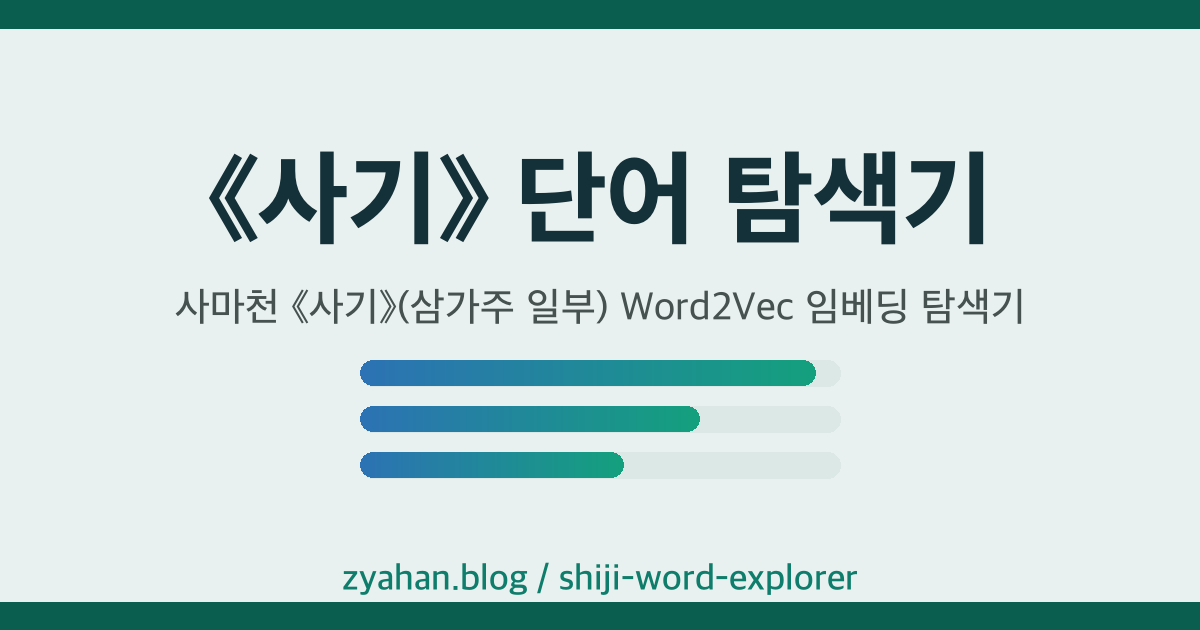
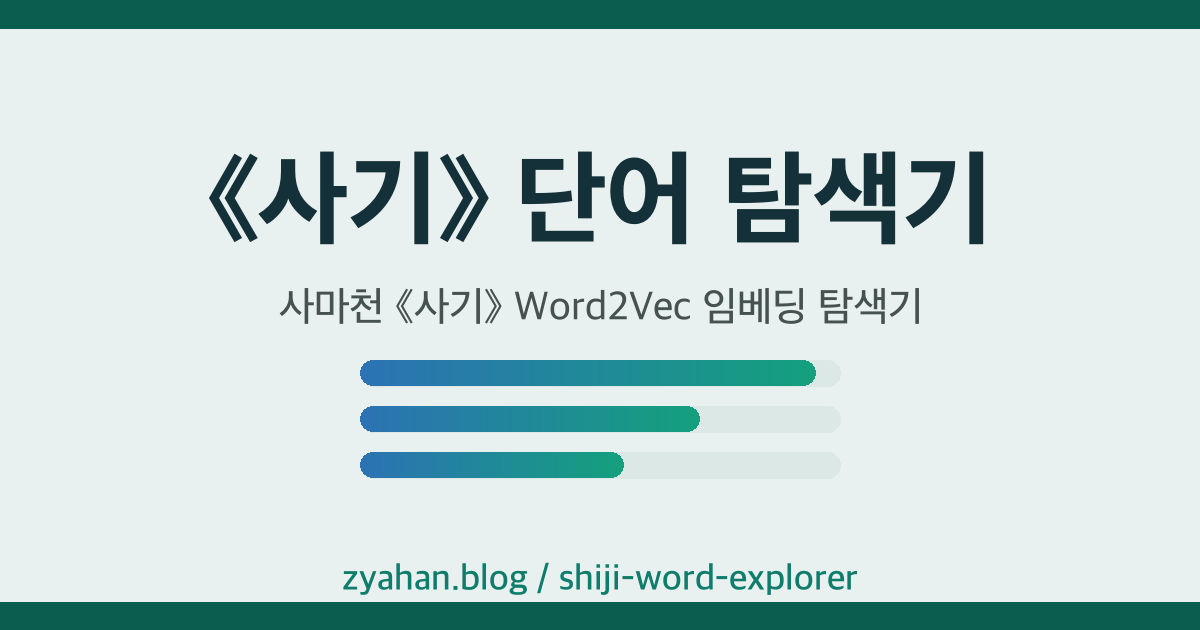
史記 三家注 제외 — 本文만으로 재학습 + 탐색기/OG 갱신
史記 standalone 모델을 漢書·後漢書와 동일하게 本文 전용으로 전환. 三家注(集解·索隱·正義:
卷027 天官書 등 ~23k 토큰)는 唐宋 注釋家(裴駰·司馬貞·張守節) register라 西漢 텍스트 모델
의도에 맞춰 학습 제외.

- config/shiji.yaml: include_peizhu_in_training true→false (注는 corpus.jsonl·가제티어엔
  유지, Stage 5만 필터). 부정확 주석("注 미수록") 교정.
- 재학습(05~08): 本文 55,976 세그먼트, 코퍼스 679k→656k 토큰, vocab 4,998→4,937(개체 1,540).
  注-전용 토큰(注釋家 孟康·蘇林·徐廣·裴駰, 라벨 集解·索隱·正義) 전부 OOV로 이탈 — 의도된 정화.
  검증 17/17. 本文 개체 전원 유지(嫪毐·去病·田忌 등), 군집 일관(太史公→《書》·《詩》·《易》).
- 웹 탐색기: index.html 문안(부제·안내·출처)을 漢書 패턴대로 '本文 학습' 명시로 교체.
  og-image.png 부제 '사마천 《사기》 Word2Vec 임베딩 탐색기'로 재생성('삼가주 일부' 제거,
  나머지 디자인 픽셀 동일). README 史記 열 갱신.
- docs/ADDING_AN_EXPLORER.md 부제 예시도 注-제외 모델 기준으로 갱신.

Changed region(s): [[0.1542, 0.4524, 0.8633, 0.5127]]

diff --git a/web/shiji/index.html b/web/shiji/index.html
@@ -4,12 +4,12 @@
 <meta charset="utf-8">
 <meta name="viewport" content="width=device-width, initial-scale=1">
 <title>《사기》 단어 탐색기</title>
-<meta name="description" content="사마천의 《사기》(삼가주 일부 포함)에서 학습한 Word2Vec 임베딩 탐색기 — 한자 단어의 쓰임을 코사인 유사도로 비교하고, 비슷한 단어·스파이를 찾아보세요.">
+<meta name="description" content="사마천의 《사기》 본문에서 학습한 Word2Vec 임베딩 탐색기 — 한자 단어의 쓰임을 코사인 유사도로 비교하고, 비슷한 단어·스파이를 찾아보세요.">
 <!-- Open Graph / SNS 공유 카드 -->
 <meta property="og:type" content="website">
 <meta property="og:site_name" content="《사기》 단어 탐색기">
 <meta property="og:title" content="《사기》 단어 탐색기">
-<meta property="og:description" content="사마천의 《사기》(삼가주 일부 포함)에서 학습한 Word2Vec 임베딩 탐색기 — 한자 단어의 쓰임을 코사인 유사도로 비교하고, 비슷한 단어·스파이를 찾아보세요.">
+<meta property="og:description" content="사마천의 《사기》 본문에서 학습한 Word2Vec 임베딩 탐색기 — 한자 단어의 쓰임을 코사인 유사도로 비교하고, 비슷한 단어·스파이를 찾아보세요.">
 <meta property="og:url" content="https://zyahan.blog/shiji-word-explorer">
 <meta property="og:image" content="https://zyahan.blog/assets/images/shiji-explorer-og-image.png">
 <meta property="og:image:width" content="1200">
@@ -18,7 +18,7 @@
 <meta property="og:locale" content="ko_KR">
 <meta name="twitter:card" content="summary_large_image">
 <meta name="twitter:title" content="《사기》 단어 탐색기">
-<meta name="twitter:description" content="사마천의 《사기》(삼가주 일부 포함)에서 학습한 Word2Vec 임베딩 탐색기 — 한자 단어의 쓰임을 코사인 유사도로 비교하고, 비슷한 단어·스파이를 찾아보세요.">
+<meta name="twitter:description" content="사마천의 《사기》 본문에서 학습한 Word2Vec 임베딩 탐색기 — 한자 단어의 쓰임을 코사인 유사도로 비교하고, 비슷한 단어·스파이를 찾아보세요.">
 <meta name="twitter:image" content="https://zyahan.blog/assets/images/shiji-explorer-og-image.png">
 <!-- Canonical -->
 <link rel="canonical" href="https://zyahan.blog/shiji-word-explorer">
@@ -49,7 +49,7 @@
   <a class="blog-link" href="https://zyahan.blog" rel="noopener">미남과 오컬트와 자살</a>
   <nav class="series-nav"><span class="han">前四史</span> 단어 탐색기 · <strong class="current">《사기》</strong> · <a href="../hanshu/index.html">《한서》</a> · <a href="../houhanshu/index.html">《후한서》</a> · <a href="../sanguozhi/index.html">《삼국지》</a></nav>
   <h1>《사기》 단어 탐색기</h1>
-  <p class="subtitle">사마천의 《사기》(三家注 일부 포함)에서 학습한 Word2Vec 모델로 한문 단어의 쓰임을 비교합니다.
+  <p class="subtitle">사마천의 《사기》 本文에서 학습한 Word2Vec 모델로 한문 단어의 쓰임을 비교합니다.
   <strong>한글 독음으로도 검색</strong>할 수 있어요.</p>
   <p class="meta">vector_size=100 · skip-gram · 어휘 <span id="vocabCount">…</span>개</p>
 </header>
@@ -87,7 +87,7 @@
       <strong>수십~수백 회 이상</strong> 등장한 단어일수록 결과를 믿을 만합니다.</p>
 
       <h4>그 밖에 알아둘 점</h4>
-      <p>· 이 모델은 오직 <strong>사마천 《사기》(三家注 일부 포함)</strong> 원문만 압니다. 다른 사서나
+      <p>· 이 모델은 오직 <strong>사마천 《사기》 本文</strong>만 압니다(三家注 등 후대 주석은 학습에서 제외). 다른 사서나
       역사적 사실 전체를 반영하지 않으며, 원문의 서술 습관·치우침이 그대로 담깁니다.<br>
       · 한 글자 이름(<span class="han">信</span>·<span class="han">良</span> 등)은 다른 뜻과 겹쳐 흐려질 수 있어 따로 묶지 않고,
       <span class="han">張良</span>처럼 두 글자 이상 고유명사만 한 단어로 인식합니다.<br>
@@ -146,7 +146,7 @@
 
 <footer class="site-foot">
   <p><strong>데이터 출처</strong> ·
-  원문 <span class="han">史記</span> 130<span class="han">卷</span>(<span class="han">三家注</span> 일부 포함): <a href="https://zh.wikisource.org/wiki/史記" rel="noopener"><span class="han">中文維基文庫</span></a> (CC BY-SA 4.0) ·
+  원문 <span class="han">史記</span> 130<span class="han">卷</span>(本文 학습, <span class="han">三家注</span> 제외): <a href="https://zh.wikisource.org/wiki/史記" rel="noopener"><span class="han">中文維基文庫</span></a> (CC BY-SA 4.0) ·
   인명·관직: <a href="https://github.com/cbdb-project" rel="noopener">CBDB</a> (CC BY-NC-SA 4.0) ·
   지명: CHGIS (Harvard &amp; Fudan).</p>
   <p>CBDB 기반 파생물이므로 <strong>비상업·출처표기·동일조건(CC BY-NC-SA 4.0)</strong> 하에 이용하세요.</p>

diff --git a/reports/shiji/validation.md b/reports/shiji/validation.md
@@ -1,7 +1,7 @@
 # 검증 리포트 — 《史記》 개체 인식 토큰화 + Word2Vec
 
 - 코퍼스 토큰: **679,405** (本文 656,411 / 注 22,994)
-- 어휘(vocab, min_count=3): **4,998**
+- 어휘(vocab, min_count=3): **4,937**
 - 가제티어 표면형: 1,932 → 코퍼스 적중: **1,893** (개체 토큰 출현 39,998회, 전체의 5.9%)
 
 ## 1. 토큰화 정합성 자동 검사
@@ -39,7 +39,7 @@
 | APP | 18 |
 | ERA | 11 |
 
-- 적중 개체 중 vocab 진입(min_count 충족): **1542** / 1893
+- 적중 개체 중 vocab 진입(min_count 충족): **1531** / 1893
 - 희소 개체(빈도 1~2, OOV 위험): **351**개
 
 ### 빈도 상위 개체 토큰 (상위 25)
@@ -72,14 +72,14 @@
 | 大將軍 | 193 |
 
 ## 3. 분포 의미 점검 — `most_similar` 예시
-- **項羽**: 雍王(0.69), 龍且(0.68), 項王(0.67), 項梁(0.67), 章邯(0.67), 范增(0.66), 蒲將軍(0.65), 東阿(0.64)
-- **高祖**: 高帝(0.66), 沛(0.61), 蕭何(0.60), 太上皇(0.60), 盧綰(0.57), 囂(0.56), 呂后(0.55), 護軍中尉(0.54)
-- **黃帝**: 俈(0.60), 昌意(0.56), 神農(0.55), 顓頊(0.55), 玄囂(0.53), 紐(0.51), 帝堯(0.51), 帝嚳(0.50)
-- **孔子**: 仲尼(0.66), 子貢(0.63), 冉求(0.62), 子夏(0.61), 《易》(0.59), 顏淵(0.59), 子路(0.57), 石氏(0.55)
-- **丞相**: 御史大夫(0.74), 韋賢(0.64), 中丞(0.63), 太子少傅(0.62), 建陵侯(0.62), 左丞相(0.61), 楊敞(0.61), 平津侯(0.61)
-- **太守**: 代郡(0.68), 鴈門(0.68), 義縱(0.66), 遼西(0.65), 雲中(0.64), 河內(0.63), 汝南(0.62), 右北平(0.62)
-- **關中**: 仗(0.55), 廣平(0.52), 臨江(0.52), 埒(0.51), 樂成(0.51), 巴(0.50), 吳中(0.50), 廷掾(0.50)
-- **匈奴**: 單于(0.67), 冒頓(0.65), 月氏(0.63), 上谷(0.60), 匈奴單于(0.60), 漢(0.59), 胡(0.59), 貳師將軍(0.59)
+- **項羽**: 項梁(0.67), 項王(0.66), 雍王(0.66), 鴻門(0.66), 范增(0.65), 沛公(0.65), 龍且(0.65), 章邯(0.65)
+- **高祖**: 高帝(0.62), 沛(0.60), 蕭何(0.59), 盧綰(0.59), 曹參(0.58), 囂(0.53), 護軍中尉(0.53), 太上皇(0.53)
+- **黃帝**: 俈(0.62), 神農(0.55), 高陽(0.55), 昌意(0.54), 玄囂(0.52), 顓頊(0.51), 帝堯(0.50), 暘(0.50)
+- **孔子**: 仲尼(0.62), 子夏(0.60), 冉求(0.59), 顏淵(0.58), 衞靈公(0.58), 《易》(0.57), 子路(0.56), 子貢(0.56)
+- **丞相**: 御史大夫(0.72), 平津侯(0.61), 韋賢(0.61), 御史中丞(0.60), 中丞(0.60), 右丞相(0.59), 左丞相(0.59), 扶陽侯(0.59)
+- **太守**: 代郡(0.70), 遼西(0.67), 鴈門(0.66), 漁陽(0.65), 右北平(0.63), 義縱(0.63), 大司農(0.62), 淮陽(0.62)
+- **關中**: 金城(0.58), 臨江(0.57), 仗(0.57), 雍王(0.55), 巴(0.54), 尉佗(0.52), 太原郡(0.52), 博陽(0.52)
+- **匈奴**: 單于(0.68), 冒頓(0.65), 月氏(0.61), 貳師將軍(0.60), 上谷(0.59), 馬邑(0.58), 定襄(0.58), 胡(0.57)
 
 ## 4. 명시된 한계 (명세 §2.4, §6)
 - **단자(單字) 名 미병합**: 信·良·何·斯 등은 동형이의라 WSD 없이 안전 분리 불가 → 글자 토큰 유지.

diff --git a/README.md b/README.md
@@ -36,9 +36,9 @@
 
 | 항목 | 史記 | 漢書 | 後漢書 | 三國志 |
 |---|---|---|---|---|
-| 코퍼스 | 전체 130卷 (本紀12·表10·書8·世家30·列傳70), 本文 + 三家注 일부 | 전체 100卷 (紀12·表8·志10·傳70), 本文(顏師古注 제외) | 전체 120卷 (紀10·列傳80 + 司馬彪 續漢書 志30), 本文(李賢·劉昭注 제외) | 전체 65卷 (魏書30·蜀書15·吳書20), 本文 + 裴松之 注 |
-| 코퍼스 토큰 | 679,405 | 885,505 | 856,705 | 753,858 |
-| 어휘 | 4,998개 (그중 다자 고유명사 약 1,550) | 5,834개 (그중 다자 고유명사 약 1,900) | 6,093개 (그중 다자 고유명사 약 1,840) | 5,456개 (그중 다자 고유명사 약 1,640) |
+| 코퍼스 | 전체 130卷 (本紀12·表10·書8·世家30·列傳70), 本文(三家注 제외) | 전체 100卷 (紀12·表8·志10·傳70), 本文(顏師古注 제외) | 전체 120卷 (紀10·列傳80 + 司馬彪 續漢書 志30), 本文(李賢·劉昭注 제외) | 전체 65卷 (魏書30·蜀書15·吳書20), 本文 + 裴松之 注 |
+| 코퍼스 토큰 | 656,411 | 885,505 | 856,705 | 753,858 |
+| 어휘 | 4,937개 (그중 다자 고유명사 약 1,540) | 5,834개 (그중 다자 고유명사 약 1,900) | 6,093개 (그중 다자 고유명사 약 1,840) | 5,456개 (그중 다자 고유명사 약 1,640) |
 
 네 모델 모두 **100차원 skip-gram**, gensim Word2Vec(window 5, min_count 3, negative 10, epochs 15,
 고정 시드)로 동일하게 학습했습니다.
